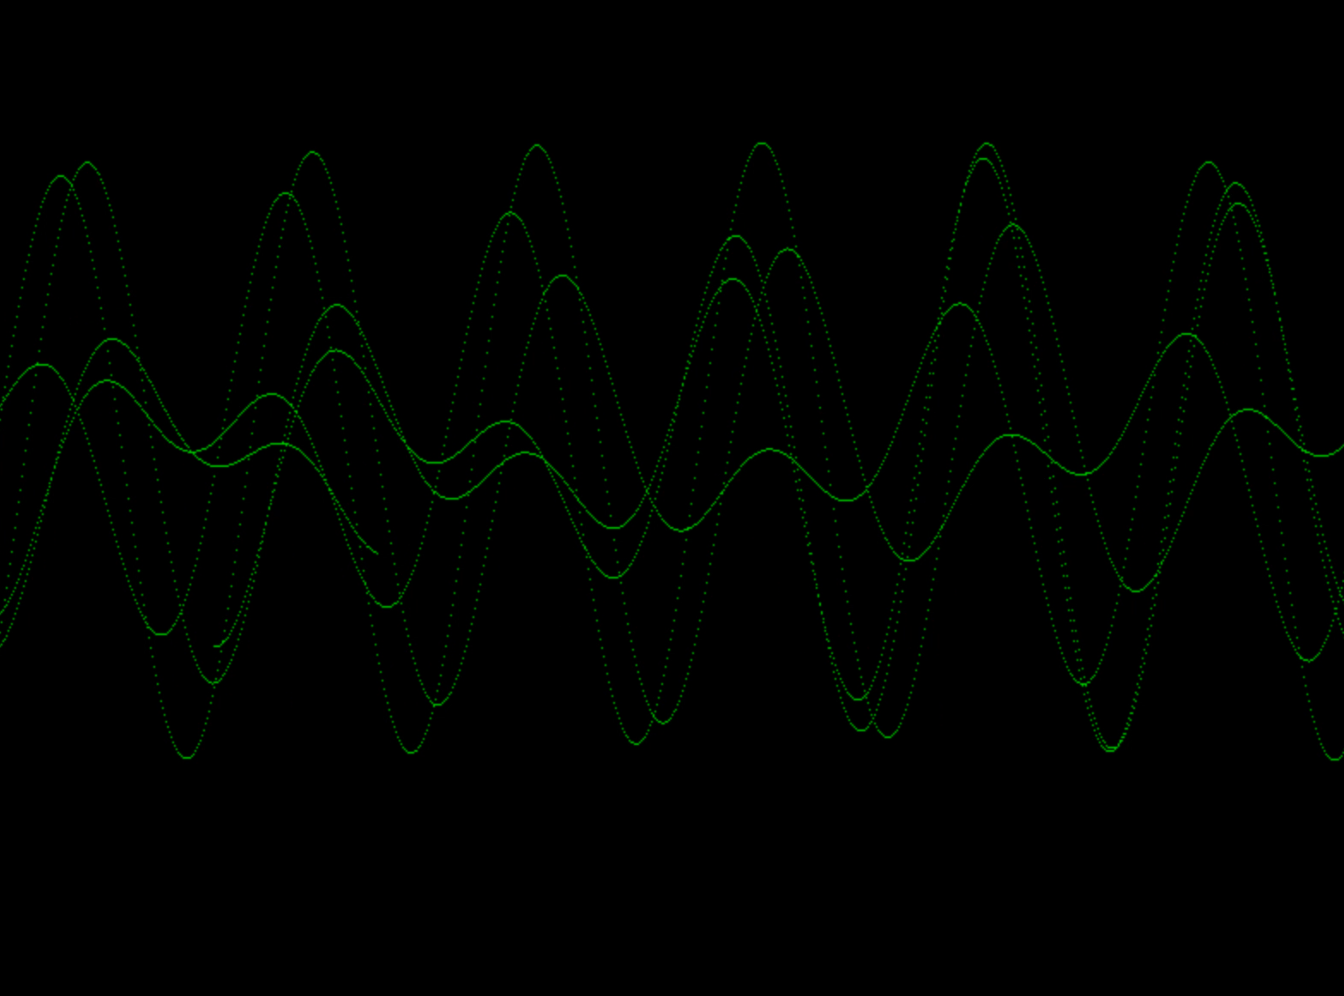
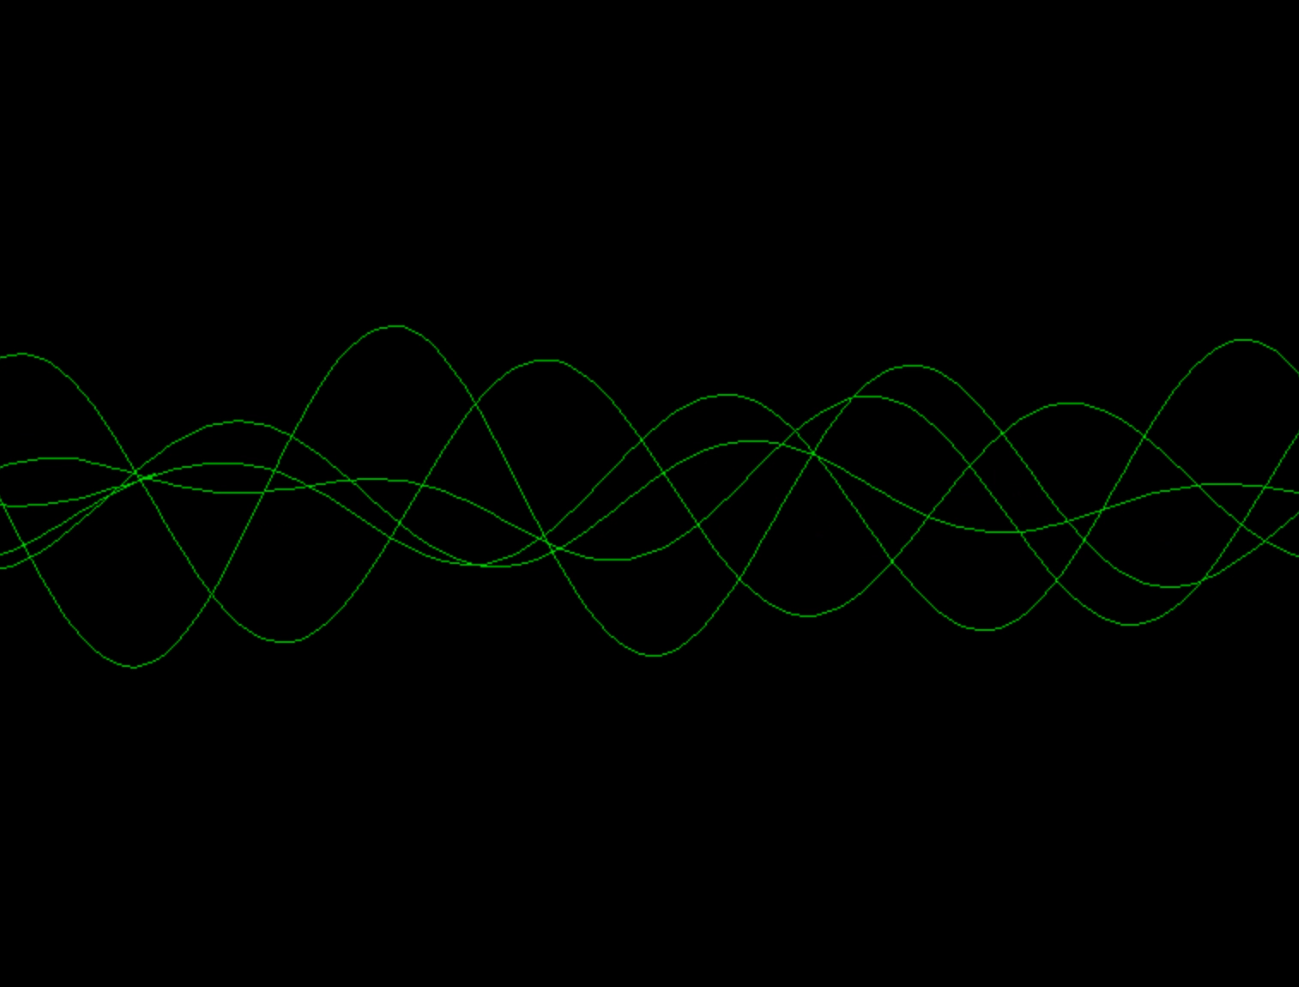
Added infos to README, updated screenshot

diff --git a/MicroTone.py b/MicroTone.py
@@ -28,7 +28,7 @@ st = pyaudio.PyAudio().open(SAMPLE_RATE, 1, pyaudio.paInt16, output = True, fram
 
 
 MAX_VOL = .9
-OSCILLATOR_AMP = .2
+OSCILLATOR_AMP = .3
 SETTINGS = {}
 CODES = {}
 freqFromCode = None
@@ -76,6 +76,7 @@ try:
     # main loop
     done = False
     frame = 0
+
     while not done:
         # event handling
         for event in pygame.event.get():
@@ -98,7 +99,7 @@ try:
                     playback.add(
                         Combine(
                             ADSREnvelope(SETTINGS['ALen'], SETTINGS['DLen'], SETTINGS['SLev'], SETTINGS['RLen'], control = kSign),
-                            Triangle(freqFromCode(note)),
+                            Sine(freqFromCode(note)),
                             Triangle(3),
                             by = lambda sigs: Signal.control([sigs[0], sigs[1] * sigs[2]])
                         )
@@ -115,7 +116,7 @@ try:
 
         # write to audio out
         buffer = []
-        for fr in range(AUDIO_BUFFER):
+        for _ in range(AUDIO_BUFFER):
             # NOTE: before here there was a check for next value not being None, now it should be useless
             # moreover I was converting the output to int via int() but I guess numpy was doing the job immediately after
             # v = max(-MAX_VOL, min(next(playback) * OSCILLATOR_AMP, MAX_VOL))
@@ -127,8 +128,8 @@ try:
 
             if x == WIDTH:
                 x = 0
-                pygame.display.flip()
-                SCREEN.fill(pygame.Color(0,0,0))
+                frame += 1
+                # print(frame)
 
             x += 1
             
@@ -143,6 +144,11 @@ try:
 
         st.write(np.int16(buffer).tobytes())
 
+            
+        if frame >= 4:
+            frame = 0
+            pygame.display.flip()
+            SCREEN.fill(pygame.Color(0,0,0))
 
 
 

diff --git a/README.md b/README.md
@@ -1,5 +1,15 @@
 # MicroTone
-A simple synth to allow parametrization over different musical scales and keymaps, as well as oscillators, envelopes.
+A simple synth to allow parametrization over different musical scales and keymaps, as well as oscillators, envelopes. It enables manipulating signals. Signals are essentially generators
+of values, they can be oscillators, envelopes or keypreses too.
+
+# Signals
+Signal is an abstract class. To define a subclass one need to define the step method (and possibly override the constructor or _initialize when needed). An active signal gives float signed numbers, some signals do terminate and do that by returning None and when this happens they continues returning None if next is called on them. The abstract class implements some checks over the concrete classes.
+
+# Oscillators
+An Oscillator is a Signal. In [oscillators.py] are defined Triangle, Square, Sine and SawTooth Oscillators. This is an handy way to define a Signal having a function and its supposed (or enforced) period.
+
+# Settings
+In settings it is possible to load the keymaps and the scale system as well as define the constants of the used ADSR envelope. At present time only two scales and two relative keymaps are implemented: dodecaphonic scale (with a mapping resambling the piano keyboard on a PC keyboard) and isomorphic (where more PC keys are used, going up in pitch diagonally NE). However the two couple of choices are independent.
 
 ## Screenshot
 ![MicroToneOscilloscope](screenshot.png "MicroTone")

diff --git a/TODO.md b/TODO.md
@@ -1,5 +1,4 @@
 ## First
-- Check if key signals dict grows
 - Better refactory of volume system
 
 ## Octave extension
@@ -10,4 +9,5 @@
 - Maybe we should not differenciate between oscillators and signals! One could define a subclass FunctionSignal <: Signal to make a signal out of a generating function.
 - Make generator of signals/oscillators with parametric frequences. I.E. write osc = Sin() or osc = SawTooth() and then call osc(freq) to return an actual oscillator (good idea?)
 
-
+## "GUI"
+- show exactly one period (440Hz or base note) on the oscilloscope view?
